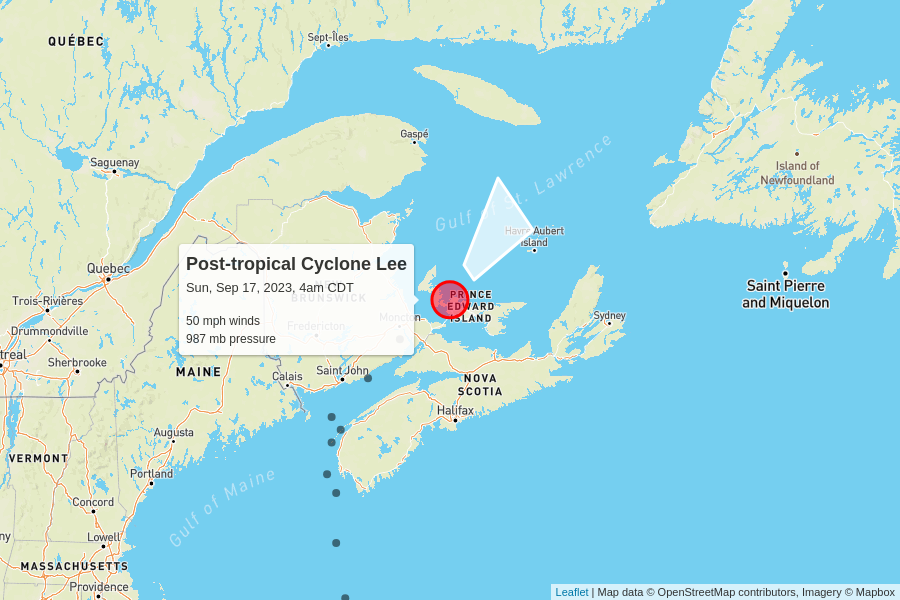
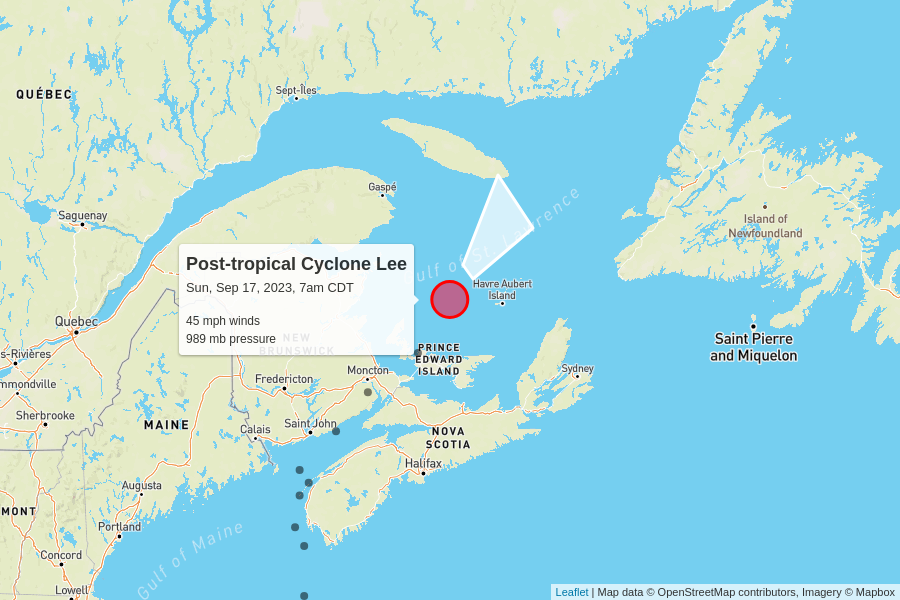
automatic update

diff --git a/docs/index.html b/docs/index.html
@@ -104,7 +104,7 @@
         <td colspan="6" class="storm category-0" >
           <h2>
             Post-tropical Cyclone Lee
-            <p class="updated">last updated <span data-time>2023-09-17T09:00:00.000Z</span></p>
+            <p class="updated">last updated <span data-time>2023-09-17T12:00:00.000Z</span></p>
           </h2>
         </td>
       </tr>
@@ -119,8 +119,8 @@
       </tr>
       <tr>
         <td class="spacer"></td>
-        <td>50 mph<br>-10 mph since last update</td>
-        <td>987 mb<br>+4 mb since last update</td>
+        <td>45 mph<br>-5 mph since last update</td>
+        <td>989 mb<br>+2 mb since last update</td>
         <td>
           22 mph to the northeast
           <br/>
